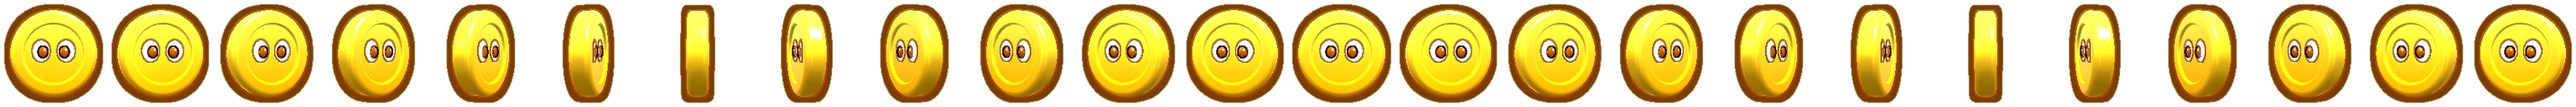
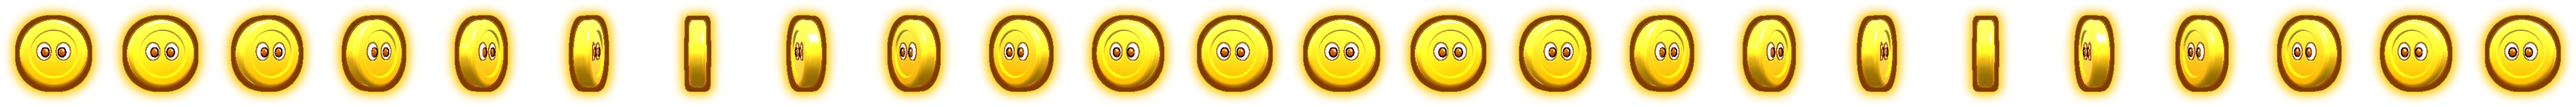
Chest perf (light treasure, prewarm all tiers, baked glow sprites), pricier chests, smaller chest rewards, cheaper hero upgrades
Claude-Session: https://claude.ai/code/session_011h6tFBJZjF5NeFWKf9GzjK

diff --git a/index.html b/index.html
@@ -1901,8 +1901,8 @@ html.wk .stitle .b1,html.wk .stitle .b2,html.wk .rtitle{-webkit-text-stroke:reve
 .flyc{position:absolute;left:0;top:0;width:44px;height:44px;margin:-22px 0 0 -22px;perspective:160px;will-change:transform}
 .flyc i{display:block;width:100%;height:100%;animation:spinY .55s linear infinite}
 /* vraie rotation 3D des modèles pièce / gemme (24 images) + halo lumineux */
-.flyc i.spr{animation:sprR .62s steps(24) infinite;background:url(ui/spin_coin.png?v=21) 0 0/2400% 100% no-repeat;filter:drop-shadow(0 0 4px rgba(255,236,120,1)) drop-shadow(0 0 9px rgba(255,200,40,.85))}
-.flyc i.spr.sg{background-image:url(ui/spin_gem.png?v=21);filter:drop-shadow(0 0 4px rgba(190,255,150,1)) drop-shadow(0 0 9px rgba(60,255,110,.8))}
+.flyc i.spr{animation:sprR .62s steps(24) infinite;background:url(ui/spin_coin.png?v=22) 0 0/2400% 100% no-repeat;transform:scale(1.25)}
+.flyc i.spr.sg{background-image:url(ui/spin_gem.png?v=22)}
 @keyframes sprR{to{background-position:104.3478% 0}}
 .flyc img{width:100%;height:100%;filter:drop-shadow(0 3px 0 rgba(11,11,25,.35))}
 @keyframes spinY{to{transform:rotateY(360deg)}}
@@ -2575,7 +2575,7 @@ const HEROES=[
  {id:'galaxie',name:'Cadeau',color:0xff3a6a,hat:'none',rar:3,perk:'coins',un:{stars:1020},skin:0,acc:[],km:'cadeau'}
 ];
 const HE=id=>HEROES.find(h=>h.id===id)||HEROES[0];
-const MAXLV=10,upCost=l=>[200,500,1200,3000,7000,16000,35000,75000,150000][l-1]||150000;
+const MAXLV=10,upCost=l=>[100,250,600,1400,3000,6500,13000,26000,50000][l-1]||50000;
 const LG=[];
 [['Bronze','#e0915a'],['Argent','#c9d6ea'],['Or','#ffd21f'],['Diamant','#5fe0ff'],['Maître','#ff5a63'],['Champion','#ff8a1f'],['Titan','#3fe08a'],['Mythique','#ff4fd0'],['Immortel','#7a5cff'],['Divin','#fff36b']].forEach(([n,c])=>['I','II','III'].forEach((r,k)=>LG.push({n:n+' '+r,c,sub:k+1})));
 [0,30,70,120,180,250,330,420,520,630,750,880,1020,1170,1330,1600,2000,2500,3200,4200,5500,7500,10000,14000,20000,30000,45000,60000,75000,88000].forEach((t,i)=>LG[i].t=t);
@@ -4347,9 +4347,9 @@ function canUpH(id){const l=save.levels[id]||1;return save.owned.includes(id)&&l
 function payUpH(id){const l=save.levels[id]||1;save.coins-=upCost(l);save.cards=save.cards||{};save.cards[id]=cardsOf(id)-cardCost(l);save.levels[id]=l+1}
 function rollChest(id,extra){const r={coins:0,gems:0,hero:null,cards:[]};
  id=CHA[id]||id;
- if(id==='c1'){r.coins=rint(150,450);if(Math.random()<.35)r.gems=rint(1,3)}
- if(id==='c2'){r.coins=rint(1000,2200);r.gems=rint(3,7)}
- if(id==='c3'){r.coins=rint(3000,6000);r.gems=rint(10,22);const pool=HEROES.filter(h=>!save.owned.includes(h.id)&&!h.un.stars&&!h.un.pass);if(pool.length&&Math.random()<.5)r.hero=pool[rint(0,pool.length-1)]}
+ if(id==='c1'){r.coins=rint(80,220);if(Math.random()<.2)r.gems=rint(1,2)}
+ if(id==='c2'){r.coins=rint(450,1000);r.gems=rint(2,4)}
+ if(id==='c3'){r.coins=rint(1300,2600);r.gems=rint(5,10);const pool=HEROES.filter(h=>!save.owned.includes(h.id)&&!h.un.stars&&!h.un.pass);if(pool.length&&Math.random()<.5)r.hero=pool[rint(0,pool.length-1)]}
  {const cid=CHA[id]||id,[nh,lo,hi]=cid==='c3'?[3,35,65]:cid==='c2'?[2,18,32]:[1,8,16];const pool=save.owned.filter(h=>(save.levels[h]||1)<MAXLV).sort(()=>Math.random()-.5).slice(0,nh);save.cards=save.cards||{};
   pool.forEach(h=>{const n=rint(lo,hi);save.cards[h]=cardsOf(h)+n;r.cards.push({id:h,n})})}
  if(extra){r.coins+=extra.coins||0;r.gems+=extra.gems||0}
@@ -4403,7 +4403,7 @@ const CXLT={};function cxLetter(ch){if(CXLT[ch])return CXLT[ch];const c=document
 function cxKeyGeo(w,h,d,r,tp){const g=roundedBox(w,h,d,r,7),p=g.attributes.position;for(let i=0;i<p.count;i++){const y=p.getY(i),k=1-tp*((y+h/2)/h);p.setX(i,p.getX(i)*k);p.setZ(i,p.getZ(i)*k);
  if(y>h/2-.02){const nx=p.getX(i)/(w/2),nz=p.getZ(i)/(d/2);p.setY(i,y-.13*Math.max(0,1-nx*nx-nz*nz))}}p.needsUpdate=true;return g}
 // coffres de l'Atelier : une touche géante (couvercle) sur un socle rétroéclairé ; plus c'est rare, plus il y a d'or
-const CXKM={c1:'coffre-rubis',c2:'coffre-etoile',c3:'coffre-royal'},CXSC=1.5;
+let CXT=null;const CXKM={c1:'coffre-rubis',c2:'coffre-etoile',c3:'coffre-royal'},CXSC=1.5;
 const CXGC={};function cxGeo(id){if(CXGC[id])return CXGC[id];const d=KMI[id],o={};for(const[k,p]of Object.entries(d.parts))o[k]=kmGeo(p,0);return CXGC[id]=o}
 const CXLT2={};function cxLetTex(ch){if(CXLT2[ch])return CXLT2[ch];const c=document.createElement('canvas');c.width=c.height=256;const x=c.getContext('2d');
  x.textAlign='center';x.textBaseline='middle';x.lineJoin='round';x.font='190px "Lilita One", "Arial Black", sans-serif';x.lineWidth=28;x.strokeStyle='#101a5c';x.strokeText(ch,128,142);x.fillStyle='#ffffff';x.fillText(ch,128,142);
@@ -4424,9 +4424,9 @@ function cxBuild(k){const P=CPAL[k],id=CXKM[k]||'coffre-rubis',D=KMI[id],G=cxGeo
  if(G['body:m'])add(bi,G['body:m'],M.plate);if(G['body:k'])add(bi,G['body:k'],M.stem);if(G['body:glow'])add(bi,G['body:glow'],M.glow,false);
  const stem=new THREE.Group();stem.position.y=D.capC*CXSC;body.add(stem);CX.stem=stem;
  // trésor visible quand la touche s'ouvre : les vraies pièces et gemmes du jeu
- const cg=cxGeo('piece'),gg=cxGeo('gemme'),tm=cxMat(),tk=cxMat();
- [[-.36,-.2,.3],[.34,-.18,-.4],[-.3,.22,.5],[.36,.2,-.2],[0,-.3,.1]].forEach(([x,z,r])=>{const c=new THREE.Group();c.position.set(x,.33,z);c.rotation.set(-1.2,r,0);c.scale.setScalar(.2);for(const[kk,gm2]of Object.entries(cg))c.add(new THREE.Mesh(gm2,kk.endsWith(':k')?tk:tm));bi.add(c)});
- [[-.05,.25],[.12,-.02]].forEach(([x,z])=>{const q=new THREE.Group();q.position.set(x,.3,z);q.scale.setScalar(.22);for(const[kk,gm2]of Object.entries(gg))q.add(new THREE.Mesh(gm2,kk.endsWith(':k')?tk:tm));bi.add(q)});
+ if(!CXT){CXT={c:new THREE.CylinderGeometry(.1,.1,.035,20),g:new THREE.OctahedronGeometry(.075,0),cm:new THREE.MeshToonMaterial({color:0xffd21a,gradientMap:gm}),gm:new THREE.MeshToonMaterial({color:0x3dff6a,gradientMap:gm})}}
+ [[-.36,-.2,.3],[.34,-.18,-.4],[-.3,.22,.5],[.36,.2,-.2],[0,-.3,.1]].forEach(([x,z,r])=>{const c=new THREE.Mesh(CXT.c,CXT.cm);c.position.set(x,.32,z);c.rotation.set(.35,r,.25);bi.add(c)});
+ [[-.05,.25],[.12,-.02]].forEach(([x,z])=>{const q=new THREE.Mesh(CXT.g,CXT.gm);q.position.set(x,.34,z);q.scale.set(1,1.3,1);bi.add(q)});
  const glow=new THREE.Mesh(new THREE.PlaneGeometry(2.3,2),new THREE.MeshBasicMaterial({map:CXGT,transparent:true,opacity:0,blending:THREE.AdditiveBlending,depthWrite:false}));glow.rotation.x=-Math.PI/2;glow.position.set(0,.6,0);body.add(glow);
  const beam=new THREE.Mesh(new THREE.CylinderGeometry(1.1,.7,3.4,32,1,true),new THREE.MeshBasicMaterial({map:CXBT,transparent:true,opacity:0,blending:THREE.AdditiveBlending,depthWrite:false,side:THREE.DoubleSide}));beam.position.y=.75+1.7;body.add(beam);CX.beam=beam;
  // la touche géante (couvercle)
@@ -4496,7 +4496,7 @@ function mcInit(){if(MC.r)return true;if(MC.fail)return false;try{const cv=docum
  const keep={};const F=['s','g','body','lid','glowM','shd','kp','kv','mats','minis','beam','stem','eyes','pups'];F.forEach(f=>keep[f]=CX[f]);CX.s=MC.s;CX.g=null;cxBuild('c2');const o={};F.forEach(f=>{o[f]=CX[f];CX[f]=keep[f]});MC.o=o;o.g.position.y=.08;o.g.scale.setScalar(1.15);o.shd.material.opacity=.22;
  addEventListener('pointermove',e=>{MC.px=e.clientX;MC.py=e.clientY;MC.pt=performance.now()},{passive:true});addEventListener('pointerdown',e=>{MC.px=e.clientX;MC.py=e.clientY;MC.pt=performance.now()},{passive:true});
  return true}catch(_){MC.r=null;MC.fail=1;return false}}
-function cxWarm(){if(CX.warm||CX.on)return;CX.warm=1;try{if(!cxInit())return;cxBuild('c1');cxSize();CX.r.compile(CX.s,CX.c);cxRender()}catch(_){}}
+function cxWarm(){if(CX.warm||CX.on)return;CX.warm=1;try{if(!cxInit())return;for(const k of['c3','c2','c1']){cxBuild(k);cxSize();CX.r.compile(CX.s,CX.c);cxRender()}}catch(_){}}
 setTimeout(()=>{(window.requestIdleCallback||(f=>setTimeout(f,1)))(cxWarm,{timeout:4000})},6000);
 function mcMount(){const h=$('#mq3d');if(!h||!mcInit())return;const cv=MC.r.domElement;if(cv.parentNode!==h)h.appendChild(cv);h.classList.add('on');
  const w=h.clientWidth||200,hh=h.clientHeight||170;if(MC.w!==w||MC.h!==hh){MC.w=w;MC.h=hh;MC.r.setSize(w,hh,false);MC.c.aspect=w/hh;MC.c.updateProjectionMatrix()}
@@ -4735,15 +4735,15 @@ function dailyOffers(){
  if(save.offerDay!==today()){save.offerDay=today();save.offerBought=[];persist()}
  const seed=today().split('-').reduce((a,b)=>a*31+ +b,7);const buyable=HEROES.filter(h=>!save.owned.includes(h.id)&&!h.un.stars&&!h.un.pass);
  const o=[{id:'free',t:'CADEAU DU JOUR',c1:'linear-gradient(#ffe86e,#ffbf1a)',c2:'#f2a100',items:[{h:img('key_c1'),q:'x1'}],box:'c1',price:null,sk:'g'},
-  {id:'pack',t:'PACK DU JOUR',c1:'linear-gradient(#ffd27a,#ff9a3a)',c2:'#e8761a',items:[{h:img('key_c2'),q:'x1'},{h:img('n_gem'),q:'30'},{h:img('n_coin'),q:'2000'}],box:'c2',sk:'p',extra:{gems:30,coins:2000},price:{gems:60},old:120,badge:'x2<br>valeur'},
-  {id:'royal',t:'OFFRE SPÉCIALE',c1:'linear-gradient(#7fe0ff,#2f9cf0)',c2:'#1f6fd0',items:[{h:img('key_c3'),q:'x1'}],box:'c3',price:{gems:50},old:100,isNew:1,sk:'b'}];
+  {id:'pack',t:'PACK DU JOUR',c1:'linear-gradient(#ffd27a,#ff9a3a)',c2:'#e8761a',items:[{h:img('key_c2'),q:'x1'},{h:img('n_gem'),q:'15'},{h:img('n_coin'),q:'1000'}],box:'c2',sk:'p',extra:{gems:15,coins:1000},price:{gems:90},old:150,badge:'x2<br>valeur'},
+  {id:'royal',t:'OFFRE SPÉCIALE',c1:'linear-gradient(#7fe0ff,#2f9cf0)',c2:'#1f6fd0',items:[{h:img('key_c3'),q:'x1'}],box:'c3',price:{gems:85},old:130,isNew:1,sk:'b'}];
  if(buyable.length){const h=buyable[Math.abs(seed)%buyable.length],full=h.un.gems?{gems:h.un.gems}:{coins:h.un.coins},cur=full.gems?'gems':'coins';
   o.push({id:'hero',t:'HÉROS EN PROMO',c1:`linear-gradient(${RAR[h.rar].ca},${RAR[h.rar].cb})`,c2:mixCss(parseInt(RAR[h.rar].cb.slice(1),16)),items:[{h:heroIcon(h),q:h.name}],hero:h.id,price:{[cur]:Math.round(full[cur]*.7)},old:full[cur],badge:'-30%'})}
- else o.push({id:'myst',t:'COFFRE MYSTIQUE',c1:'linear-gradient(#c87bff,#6a2bd8)',c2:'#4b23c4',items:[{h:img('key_c2'),q:'x1'}],box:'c2',price:{gems:24},old:40,badge:'-40%',sk:'b'});
+ else o.push({id:'myst',t:'COFFRE MYSTIQUE',c1:'linear-gradient(#c87bff,#6a2bd8)',c2:'#4b23c4',items:[{h:img('key_c2'),q:'x1'}],box:'c2',price:{gems:40},old:60,badge:'-40%',sk:'b'});
  return o}
 const RESS=[{id:'k1',t:'1 500',ic:'pk_coin1',give:{coins:1500},price:{gems:12}},{id:'k2',t:'4 000',ic:'pk_coin2',give:{coins:4000},price:{gems:30}},{id:'k3',t:'12 000',ic:'pk_coin3',give:{coins:12000},price:{gems:80},hot:1},{id:'k4',t:'25 000',ic:'pk_coin4',give:{coins:25000},price:{gems:150}},{id:'k5',t:'60 000',ic:'pk_coin5',give:{coins:60000},price:{gems:320},big:1,best:1},
  {id:'g1',t:'20',ic:'pk_gem1',give:{gems:20},price:{eur:'0,99 €'}},{id:'g2',t:'60',ic:'pk_gem2',give:{gems:60},price:{eur:'2,49 €'}},{id:'g3',t:'150',ic:'pk_gem3',give:{gems:150},price:{eur:'4,99 €'},hot:1},{id:'g4',t:'400',ic:'pk_gem4',give:{gems:400},price:{eur:'9,99 €'}},{id:'g5',t:'1 000',ic:'pk_gem5',give:{gems:1000},price:{eur:'19,99 €'},big:1,best:1}];
-const BOXES=[{id:'c1',price:{coins:1200},d:'Pièces, parfois des gemmes'},{id:'c2',price:{coins:3500},d:'Pièces + gemmes'},{id:'c3',price:{gems:80},d:'Peut contenir un héros',big:1}];
+const BOXES=[{id:'c1',price:{coins:2000},d:'Pièces, parfois des gemmes'},{id:'c2',price:{coins:6000},d:'Pièces + gemmes'},{id:'c3',price:{gems:130},d:'Peut contenir un héros',big:1}];
 const priceBtn=(p,attr,old)=>{const cur=p.gems?'gems':'coins',v=p[cur];return `${old?`<s class="old">${fmt(old)}</s>`:''}<button class="btn ${cur==='gems'?'btn-green':'btn-yellow'}" ${attr}>${ico(cur==='gems'?'gem':'coin')}${fmt(v)}</button>`};
 const prc=(p,old)=>{const cur=p.gems?'gem':'coin';return `${old?`<s class="old s">${fmt(old)}</s>`:''}<span class="pr s">${ico(cur)}${fmt(p[p.gems?'gems':'coins'])}</span>`};
 function skCard({cls,attr,title,art,foot,tags='',dis}){return `<button class="sk ${cls}" ${attr} ${dis?'disabled':''}>${tags}<span class="skt s">${title}</span><span class="ska">${art}</span><span class="skf">${foot}</span></button>`}
@@ -4839,7 +4839,7 @@ function renderMissions(){
 /* ---- effets : pièces/gemmes qui volent + confettis ---- */
 function fxLayer(){let l=$('#fx');if(!l){l=document.createElement('div');l.id='fx';document.body.appendChild(l)}return l}
 function countTo(el,from,to,ms,delay){if(!el)return;el.textContent=fmt(from);setTimeout(()=>{const t0=performance.now();const f=()=>{const k=Math.min(1,(performance.now()-t0)/ms);el.textContent=fmt(Math.round(from+(to-from)*k));if(k<1&&el.isConnected)requestAnimationFrame(f)};f()},delay)}
-[ 'spin_coin','spin_gem'].forEach(n=>{const im=new Image();im.src='ui/'+n+'.png?v=21'});
+[ 'spin_coin','spin_gem'].forEach(n=>{const im=new Image();im.src='ui/'+n+'.png?v=22'});
 function flyReward(a,kind,amount,target){const t=target||$(kind==='gems'?'#gemPill':'#coinPill');if(!a||!t)return;const b=t.getBoundingClientRect(),L=fxLayer();
  const n=Math.min(14,Math.max(6,Math.round(amount/(kind==='gems'?2:70)))),x0=a.left+a.width/2,y0=a.top+a.height/2,x1=b.left+Math.min(24,b.width/2),y1=b.top+b.height/2;
  for(let i=0;i<n;i++){const e=document.createElement('span');e.className='flyc';e.innerHTML=`<i class="spr${kind==='gems'?' sg':''}" style="animation-delay:${-Math.random()*.6}s"></i>`;L.appendChild(e);

diff --git a/sw.js b/sw.js
@@ -1,5 +1,5 @@
 // Paint Clash : appli installable + jeu hors ligne contre les bots
-const V = 'pc-v154';
+const V = 'pc-v155';
 const CORE = ['/', '/manifest.json', '/icon-192.png', '/icon-512.png',
   'https://cdnjs.cloudflare.com/ajax/libs/three.js/r128/three.min.js'];
 self.addEventListener('install', e => {
